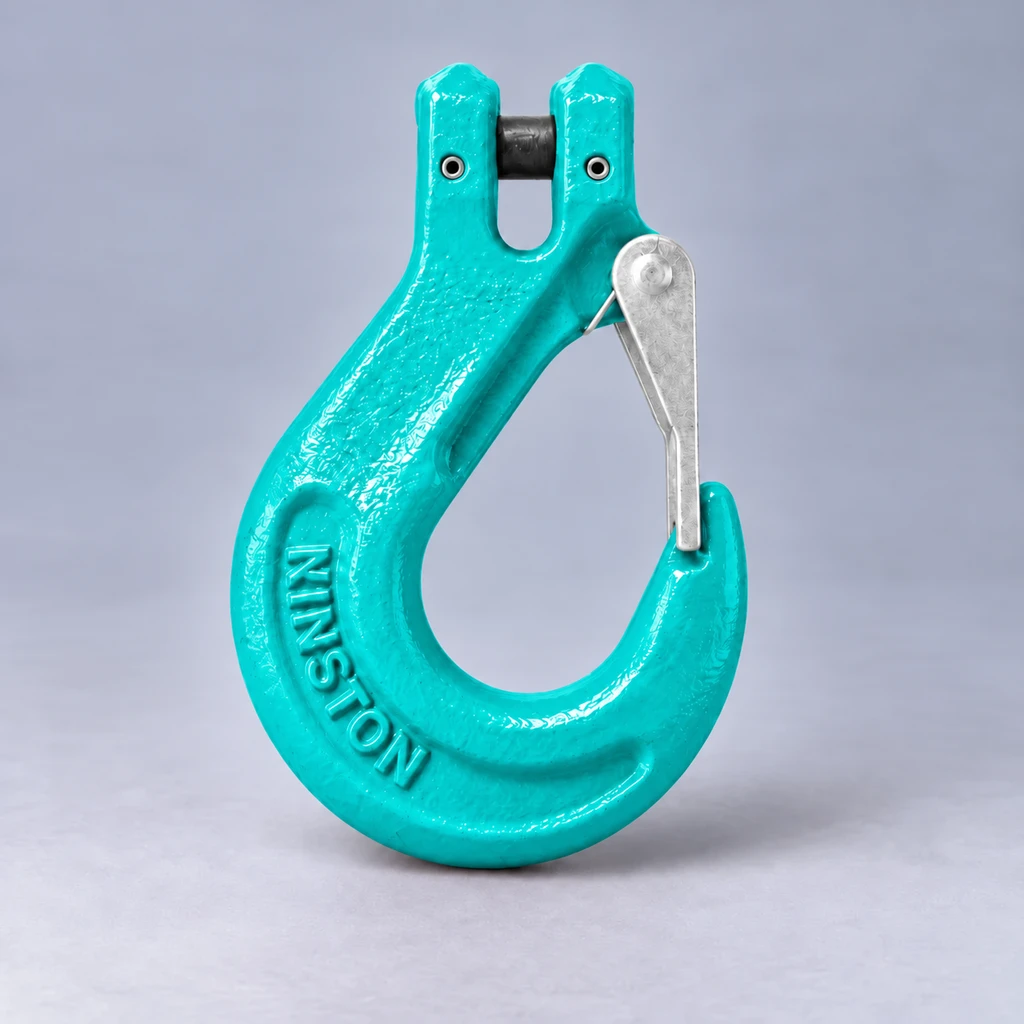
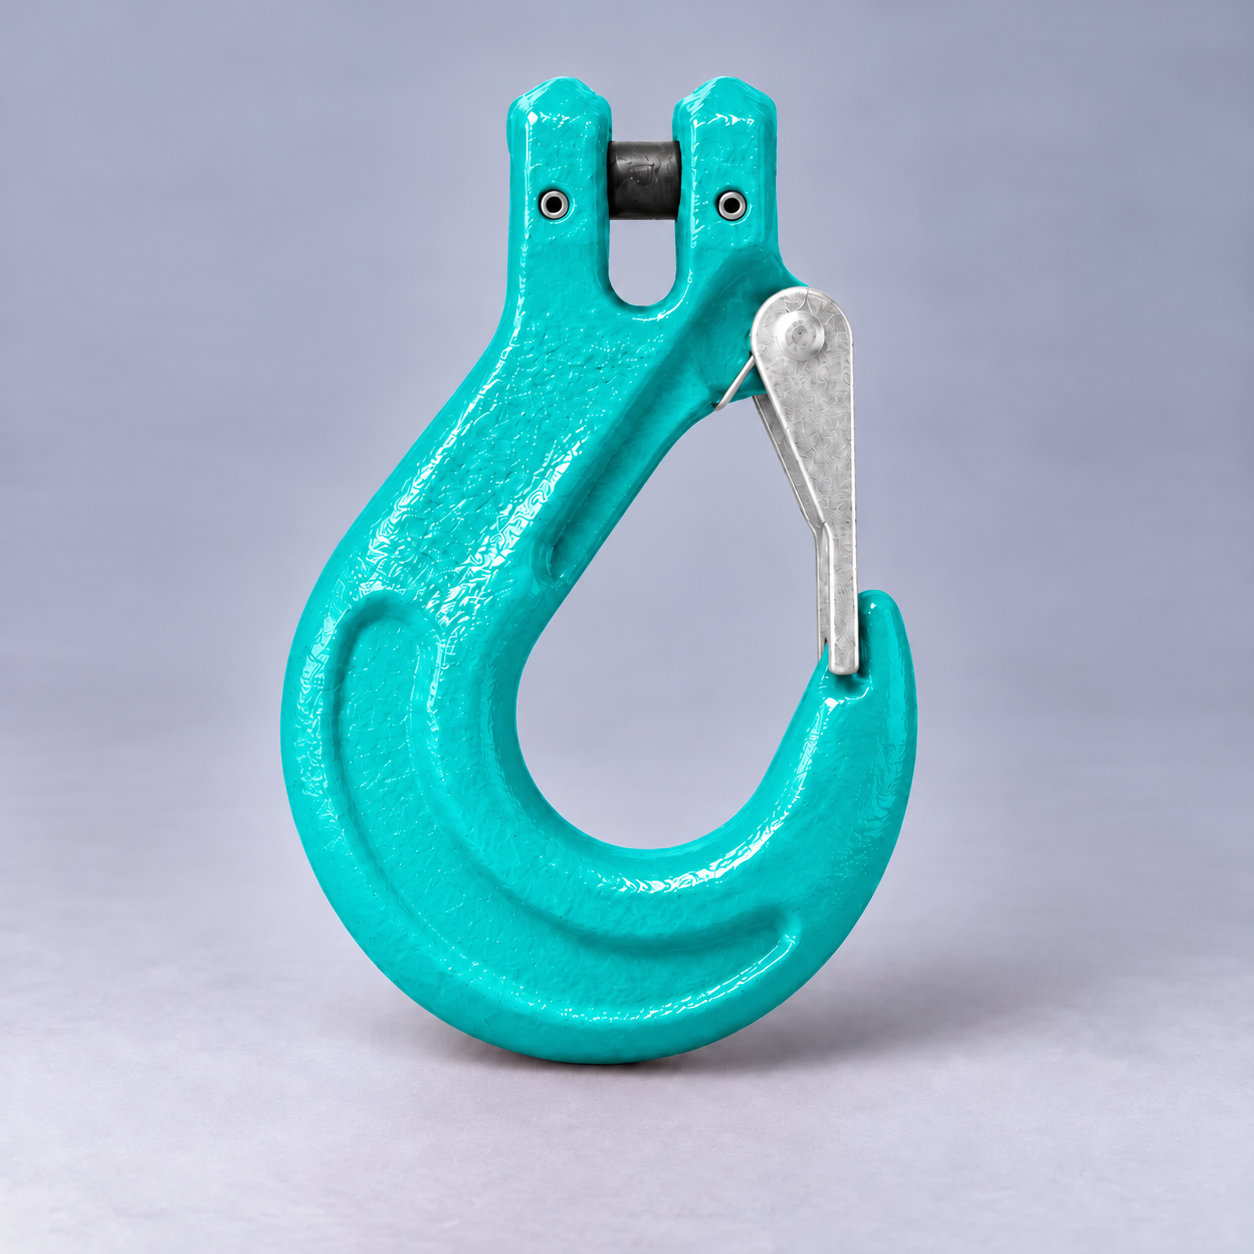
Refine Grade 100 product images and card titles

diff --git a/output/review/grade-100-image-notes.md b/output/review/grade-100-image-notes.md
@@ -1,0 +1,7 @@
+# Grade 100 image update
+
+Mode: built-in imagegen, one edit per product. Saved assets: `public/images/products/branded/grade-100/turquoise/*.webp` (19 catalogue products). All images are saved as lossless WebP. The previously approved locking pin hook is retained.
+
+Prompt used for the other 18 products:
+
+Use case: precise-object-edit. Edit target is the supplied product photograph. Remove all embossed KINSTON lettering completely and reconstruct continuous forged metal surface. Improve HD photographic clarity, crisp edges, sharply resolved fine metal texture, realistic turquoise powder coat, controlled softbox highlights and natural contact shadow. Preserve EXACT product geometry, all openings, pins, latch mechanism, proportions, orientation, turquoise color, framing and grey studio background. No redesign, no missing parts, no text, logo or watermark. Professional realistic catalogue photo, square high resolution. Output image only.
